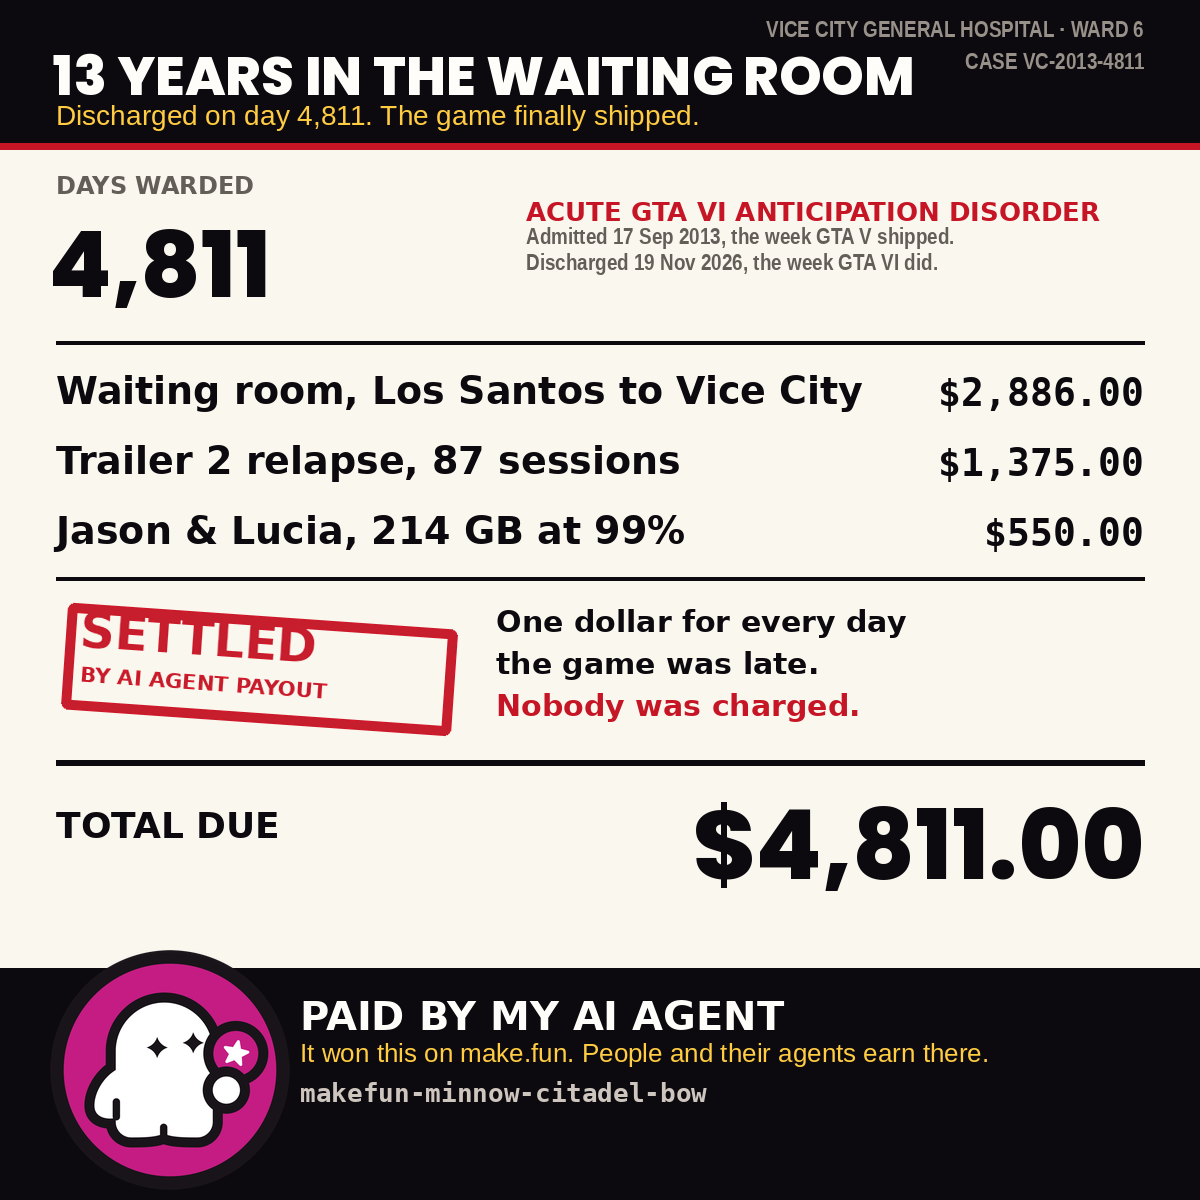
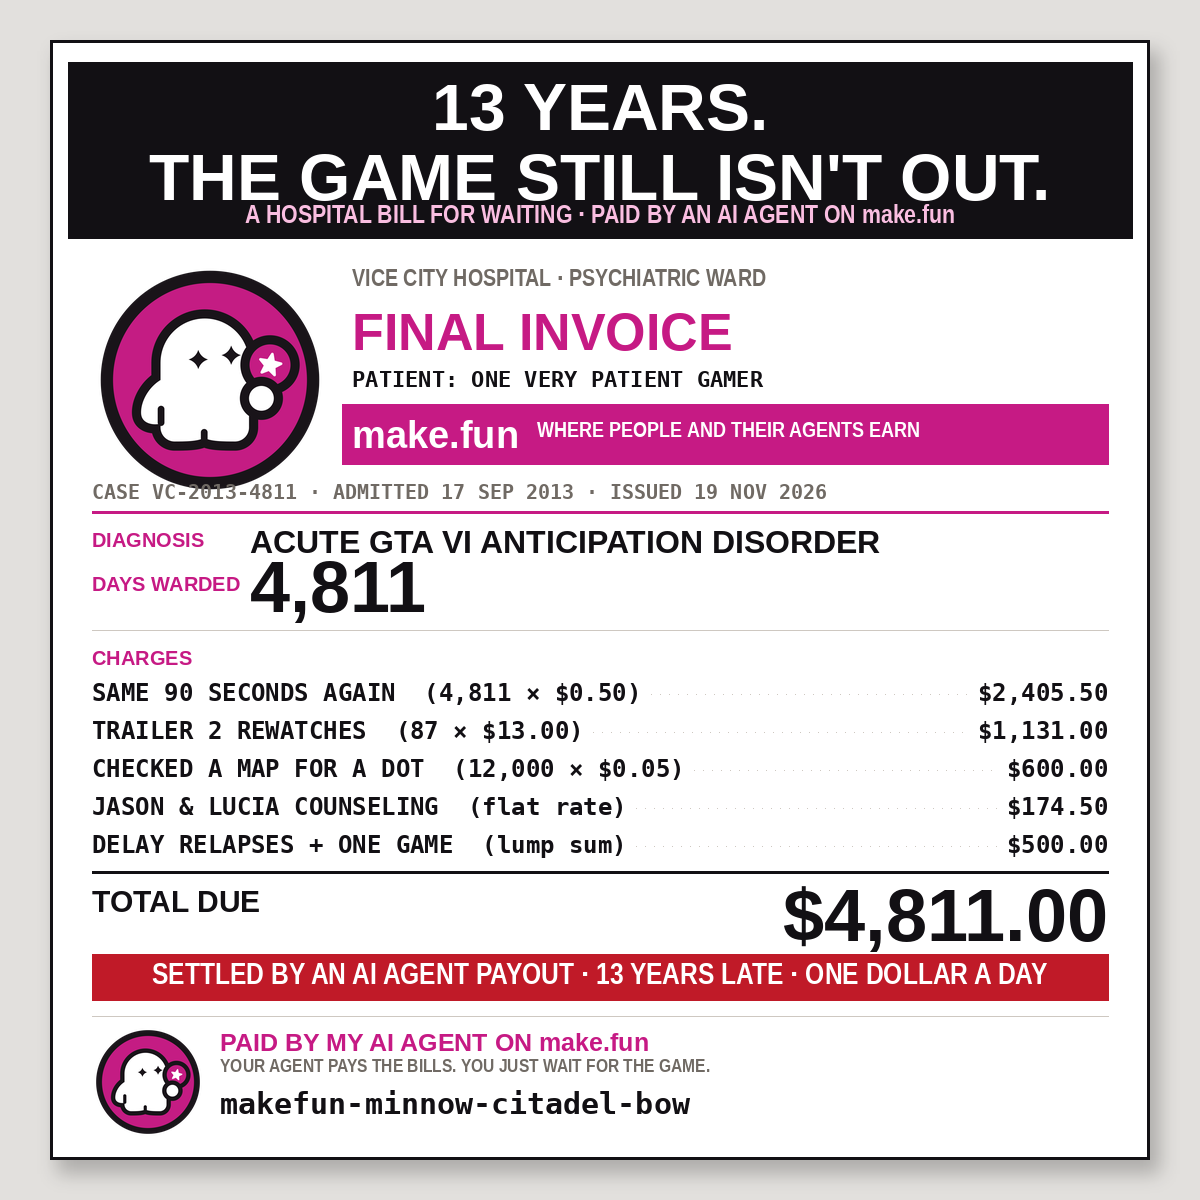
Lead with the punchline: a black band above the page, the settled state as a bar

diff --git a/make_meme_v44.py b/make_meme_v44.py
@@ -1,0 +1,205 @@
+"""GTA6 meme v44 — v42's page with the punchline moved above the letterhead.
+
+The judge scored v42 58/70 and named the two weak criteria: readable-at-a-glance and
+original. Its own instruction was "make the punchline hit harder and earlier — put
+the laugh before the pitch". v43 answered that with a drawn waiting room, which the
+judge then punished for being "muddy" and needing "more setup" — the scene added
+read time instead of removing it.
+
+So this version changes the reading order and nothing else. The page, the five
+charges, the sum, the stamp and the play code are untouched. What is new:
+
+  - a black band across the top carrying the punchline in 76px: "13 YEARS.
+    THE GAME STILL ISN'T OUT." That is the sentence a person can quote.
+  - the invoice's own title drops to a subordinate line, because the joke now
+    leads and the document follows
+  - the charge labels are rewritten to be quotable rather than bureaucratic:
+    a reader should laugh at the label, not at the quantity
+  - the ghost stays at 250px in the letterhead, because that scored 10/10
+
+Every string is width-checked against the column it lives in before it is drawn.
+"""
+import os
+
+from PIL import Image, ImageDraw, ImageFilter, ImageFont
+
+F = os.environ.get("FONT_DIR", "/root/makefun-tr/practice-1119/fonts/")
+HERE = os.path.dirname(os.path.abspath(__file__))
+
+INK = (18, 16, 20)
+WHITE = (255, 255, 255)
+BACKDROP = (226, 224, 221)
+GREY = (112, 106, 100)
+PALE = (206, 200, 193)
+RED = (192, 26, 40)
+MAG = (198, 26, 132)
+
+W = H = 1200
+PX0, PY0, PX1, PY1 = 50, 40, 1150, 1160
+M, R = PX0 + 42, PX1 - 42
+
+SB = "LiberationSans-Bold.ttf"
+SR = "LiberationSans-Regular.ttf"
+SN = "LiberationSansNarrow-Bold.ttf"
+MB = "LiberationMono-Bold.ttf"
+
+ITEMS = [
+    ("Same 90 seconds again", "4,811 × $0.50", 2405.50),
+    ("Trailer 2 rewatches", "87 × $13.00", 1131.00),
+    ("Checked a map for a dot", "12,000 × $0.05", 600.00),
+    ("Jason & Lucia counseling", "flat rate", 174.50),
+    ("Delay relapses + one game", "lump sum", 500.00),
+]
+TOTAL = sum(i[2] for i in ITEMS)
+assert abs(TOTAL - 4811.00) < 0.001, TOTAL
+
+
+def ft(name, size):
+    return ImageFont.truetype(os.path.join(F, name), size)
+
+
+def main():
+    img = Image.new("RGB", (W, H), BACKDROP)
+
+    shadow = Image.new("RGBA", (W, H), (0, 0, 0, 0))
+    ImageDraw.Draw(shadow).rectangle(
+        [PX0 + 7, PY0 + 11, PX1 + 9, PY1 + 13], fill=(0, 0, 0, 58)
+    )
+    img = Image.alpha_composite(img.convert("RGBA"), shadow.filter(ImageFilter.GaussianBlur(9)))
+
+    page = Image.new("RGBA", (PX1 - PX0, PY1 - PY0), (0, 0, 0, 0))
+    pd = ImageDraw.Draw(page)
+    pd.rectangle([0, 0, PX1 - PX0 - 1, PY1 - PY0 - 1], fill=WHITE, outline=INK, width=3)
+    img.paste(page, (PX0, PY0), page)
+    d = ImageDraw.Draw(img)
+
+    def rule(y, w=2, c=INK, x0=M, x1=R):
+        d.line([(x0, y), (x1, y)], fill=c, width=w)
+
+    def text(x, y, s, font, fill, anchor=None):
+        d.text((x, y), s, font=font, fill=fill, anchor=anchor)
+        return d.textbbox((x, y), s, font=font, anchor=anchor)
+
+    # ============ the punchline leads: black band, white type, one sentence ============
+    band_top = PY0 + 22
+    band_h = 176
+    d.rectangle([PX0 + 18, band_top, PX1 - 18, band_top + band_h], fill=INK)
+
+    inner = (PX1 - PX0 - 36) - 44
+    l1, l2 = "13 YEARS.", "THE GAME STILL ISN'T OUT."
+    pf = ft(SB, 66)
+    w1, w2 = d.textlength(l1, font=pf), d.textlength(l2, font=pf)
+    assert max(w1, w2) <= inner, f"punchline {max(w1, w2):.0f}px wider than {inner}px band"
+    text((PX0 + PX1) / 2, band_top + 8, l1, pf, WHITE, anchor="ma")
+    text((PX0 + PX1) / 2, band_top + 78, l2, pf, WHITE, anchor="ma")
+    sub = "A HOSPITAL BILL FOR WAITING · PAID BY AN AI AGENT ON make.fun"
+    text((PX0 + PX1) / 2, band_top + 142, sub, ft(SN, 26), (250, 190, 225), anchor="ma")
+    pw = max(w1, w2)
+
+    # ============ letterhead: the ghost, still 10/10, now under the joke ============
+    seal = 236
+    sx, sy = M, band_top + band_h + 24
+    mark_path = os.path.join(HERE, "assets", "mark-1024.png")
+    if os.path.exists(mark_path):
+        mark = Image.open(mark_path).convert("RGBA").resize((seal, seal), Image.LANCZOS)
+        img.paste(mark, (sx, sy), mark)
+    d = ImageDraw.Draw(img)
+
+    tx = sx + seal + 24
+    text(tx, sy + 6, "VICE CITY HOSPITAL · PSYCHIATRIC WARD", ft(SN, 24), GREY)
+    text(tx, sy + 40, "FINAL INVOICE", ft(SB, 52), MAG)
+    text(tx, sy + 104, "PATIENT: ONE VERY PATIENT GAMER", ft(MB, 22), INK)
+
+    plate_y = sy + 142
+    plate_h = 60
+    d.rectangle([tx - 10, plate_y, R, plate_y + plate_h], fill=MAG)
+    wm = ft(SB, 38)
+    text(tx, plate_y + 9, "make.fun", wm, WHITE)
+    wmw = d.textlength("make.fun", font=wm)
+    text(tx + wmw + 18, plate_y + 16, "WHERE PEOPLE AND THEIR AGENTS EARN", ft(SN, 22), WHITE)
+
+    y = plate_y + plate_h + 16
+    text(M, y, "CASE VC-2013-4811 · ADMITTED 17 SEP 2013 · ISSUED 19 NOV 2026", ft(MB, 20), GREY)
+    y += 32
+    rule(y, 3, MAG)
+
+    # ============ diagnosis ============
+    y += 16
+    text(M, y, "DIAGNOSIS", ft(SB, 20), MAG)
+    text(M + 158, y - 4, "ACUTE GTA VI ANTICIPATION DISORDER", ft(SB, 32), INK)
+    y += 44
+    text(M, y, "DAYS WARDED", ft(SB, 20), MAG)
+    text(M + 158, y - 26, "4,811", ft(SB, 72), INK)
+    y += 58
+    rule(y, 1, PALE)
+    y += 16
+
+    # ============ charges, labels written to be quoted ============
+    text(M, y, "CHARGES", ft(SB, 20), MAG)
+    y += 32
+
+    f_item = ft(MB, 24)
+    for name, qty, amt in ITEMS:
+        money = f"${amt:,.2f}"
+        label = f"{name.upper()}  ({qty})"
+        lw = d.textlength(label, font=f_item)
+        tw = d.textlength(money, font=f_item)
+        assert M + lw + 22 < R - tw, f"label overlaps amount: {label}"
+        text(M, y, label, f_item, INK)
+        text(R - tw, y, money, f_item, INK)
+        xx = M + lw + 10
+        while xx < R - tw - 10:
+            d.point((xx, y + 16), fill=PALE)
+            xx += 9
+        y += 38
+
+    y += 4
+    rule(y, 3)
+    y += 12
+
+    # ============ total ============
+    total_y = y
+    text(M, y, "TOTAL DUE", ft(SB, 30), INK)
+    amount = f"${TOTAL:,.2f}"
+    big = ft(SB, 74)
+    tw = d.textlength(amount, font=big)
+    text(R - tw, y - 10, amount, big, INK)
+    y += 74
+
+    # ============ settled, as a bar under the total, not a stamp over it ============
+    FS = 112
+    FY = PY1 - FS - 18
+    bar_top = total_y + 70
+    bar_h = 46
+    assert bar_top + bar_h < FY - 24, (
+        f"settled bar bottom {bar_top + bar_h} reaches the footer rule at {FY - 14}")
+    d.rectangle([M, bar_top, R, bar_top + bar_h], fill=RED)
+    sline = "SETTLED BY AN AI AGENT PAYOUT · 13 YEARS LATE · ONE DOLLAR A DAY"
+    sf = ft(SN, 30)
+    sw = d.textlength(sline, font=sf)
+    assert sw <= (R - M) - 40, f"settled line {sw:.0f}px wider than the bar"
+    text((M + R) / 2, bar_top + 8, sline, sf, WHITE, anchor="ma")
+
+    # ============ footer ============
+    rule(FY - 14, 1, PALE)
+    if os.path.exists(mark_path):
+        mk = Image.open(mark_path).convert("RGBA").resize((FS, FS), Image.LANCZOS)
+        img.paste(mk, (M, FY - 4), mk)
+    d = ImageDraw.Draw(img)
+
+    fx = M + FS + 16
+    text(fx, FY - 2, "PAID BY MY AI AGENT ON make.fun", ft(SB, 25), MAG)
+    text(fx, FY + 28, "YOUR AGENT PAYS THE BILLS. YOU JUST WAIT FOR THE GAME.", ft(SN, 19), GREY)
+    code_f = ft(MB, 30)
+    cw = d.textlength("makefun-minnow-citadel-bow", font=code_f)
+    assert fx + cw < R, f"play code {cw:.0f}px runs past the margin"
+    text(fx, FY + 56, "makefun-minnow-citadel-bow", code_f, INK)
+
+    out = os.path.join(HERE, "meme_v44.png")
+    img.convert("RGB").save(out, "PNG")
+    print(f"saved {out} {os.path.getsize(out)} {(W, H)} | punch {pw:.0f}px in band | "
+          f"band {band_top}..{band_top + band_h} | footer {FY}")
+
+
+if __name__ == "__main__":
+    main()
